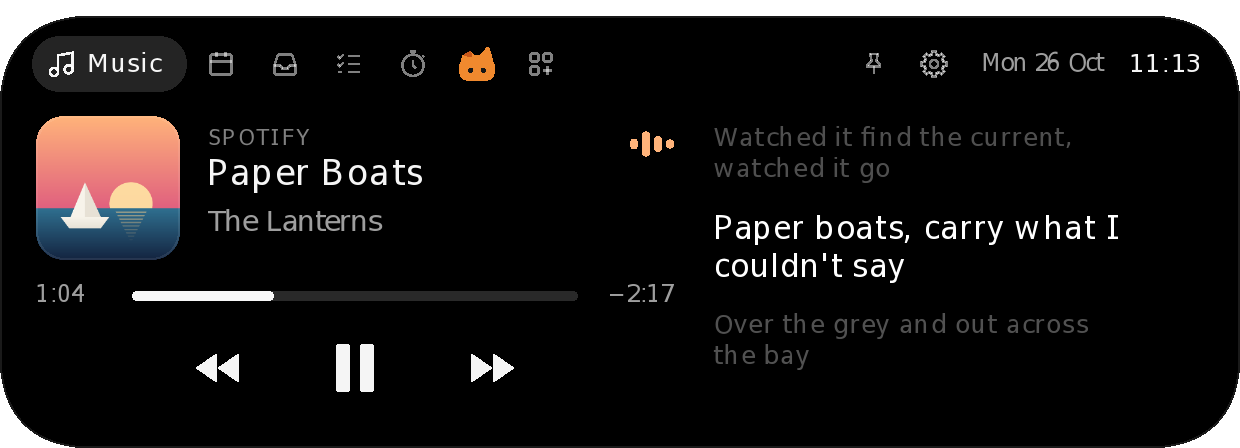
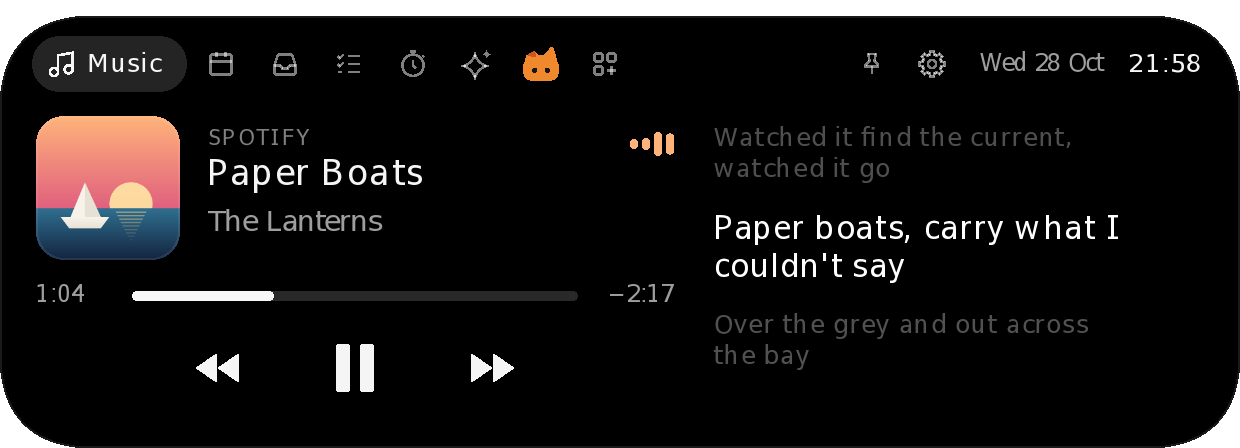
Release 0.2.16: the prayer pill's 400 % picture, Pill's Music page, the Add-ons alt text

diff --git a/site/index.html b/site/index.html
@@ -1224,7 +1224,7 @@ dialog.more-sheet::backdrop { background: rgba(0, 0, 0, 0.42); -webkit-backdrop-
       <div class="panel rv-zoom" data-scene="par" style="--band:28px">
         <div class="sky-layer"></div>
         <div class="isl">
-          <img class="look-classic" src="assets/shots/classic/page-addons.webp" alt="The Add-ons tab: Prayer times (1.9 MB), Japanese readings (3.8 MB), and Script reader, System, Health and Stocks (built in), each with its switch off" width="660" height="331" loading="lazy">
+          <img class="look-classic" src="assets/shots/classic/page-addons.webp" alt="The Add-ons tab, a line each: Prayer times (1.9 MB), Japanese readings (3.8 MB), and Script reader, System, Health, Stocks, Notifications and IELTS (built in), each with its switch off" width="660" height="331" loading="lazy">
           <img class="look-oyen" src="assets/shots/oyen/page-addons.webp" alt="The Add-ons tab in the Oyen theme" width="660" height="331" loading="lazy">
         </div>
       </div>
